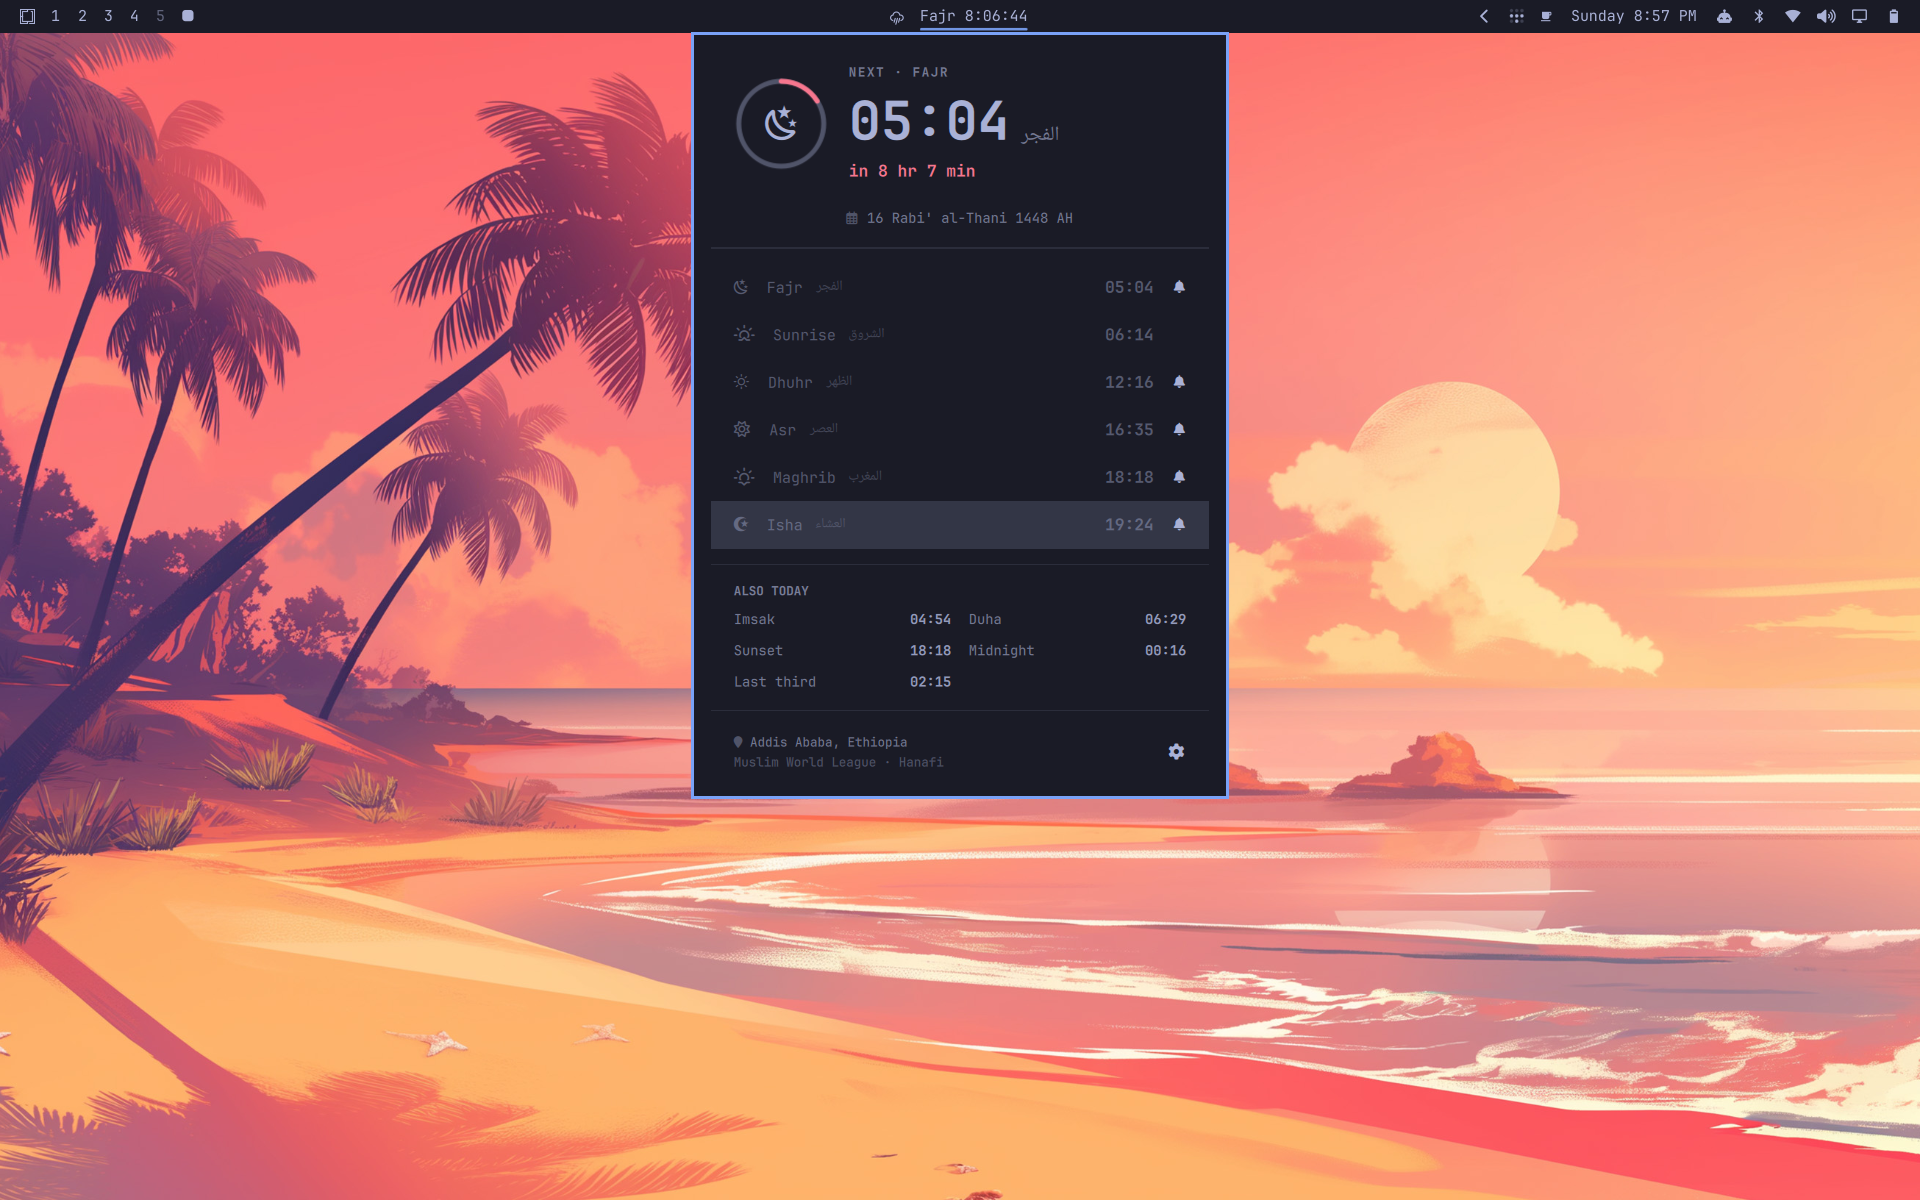
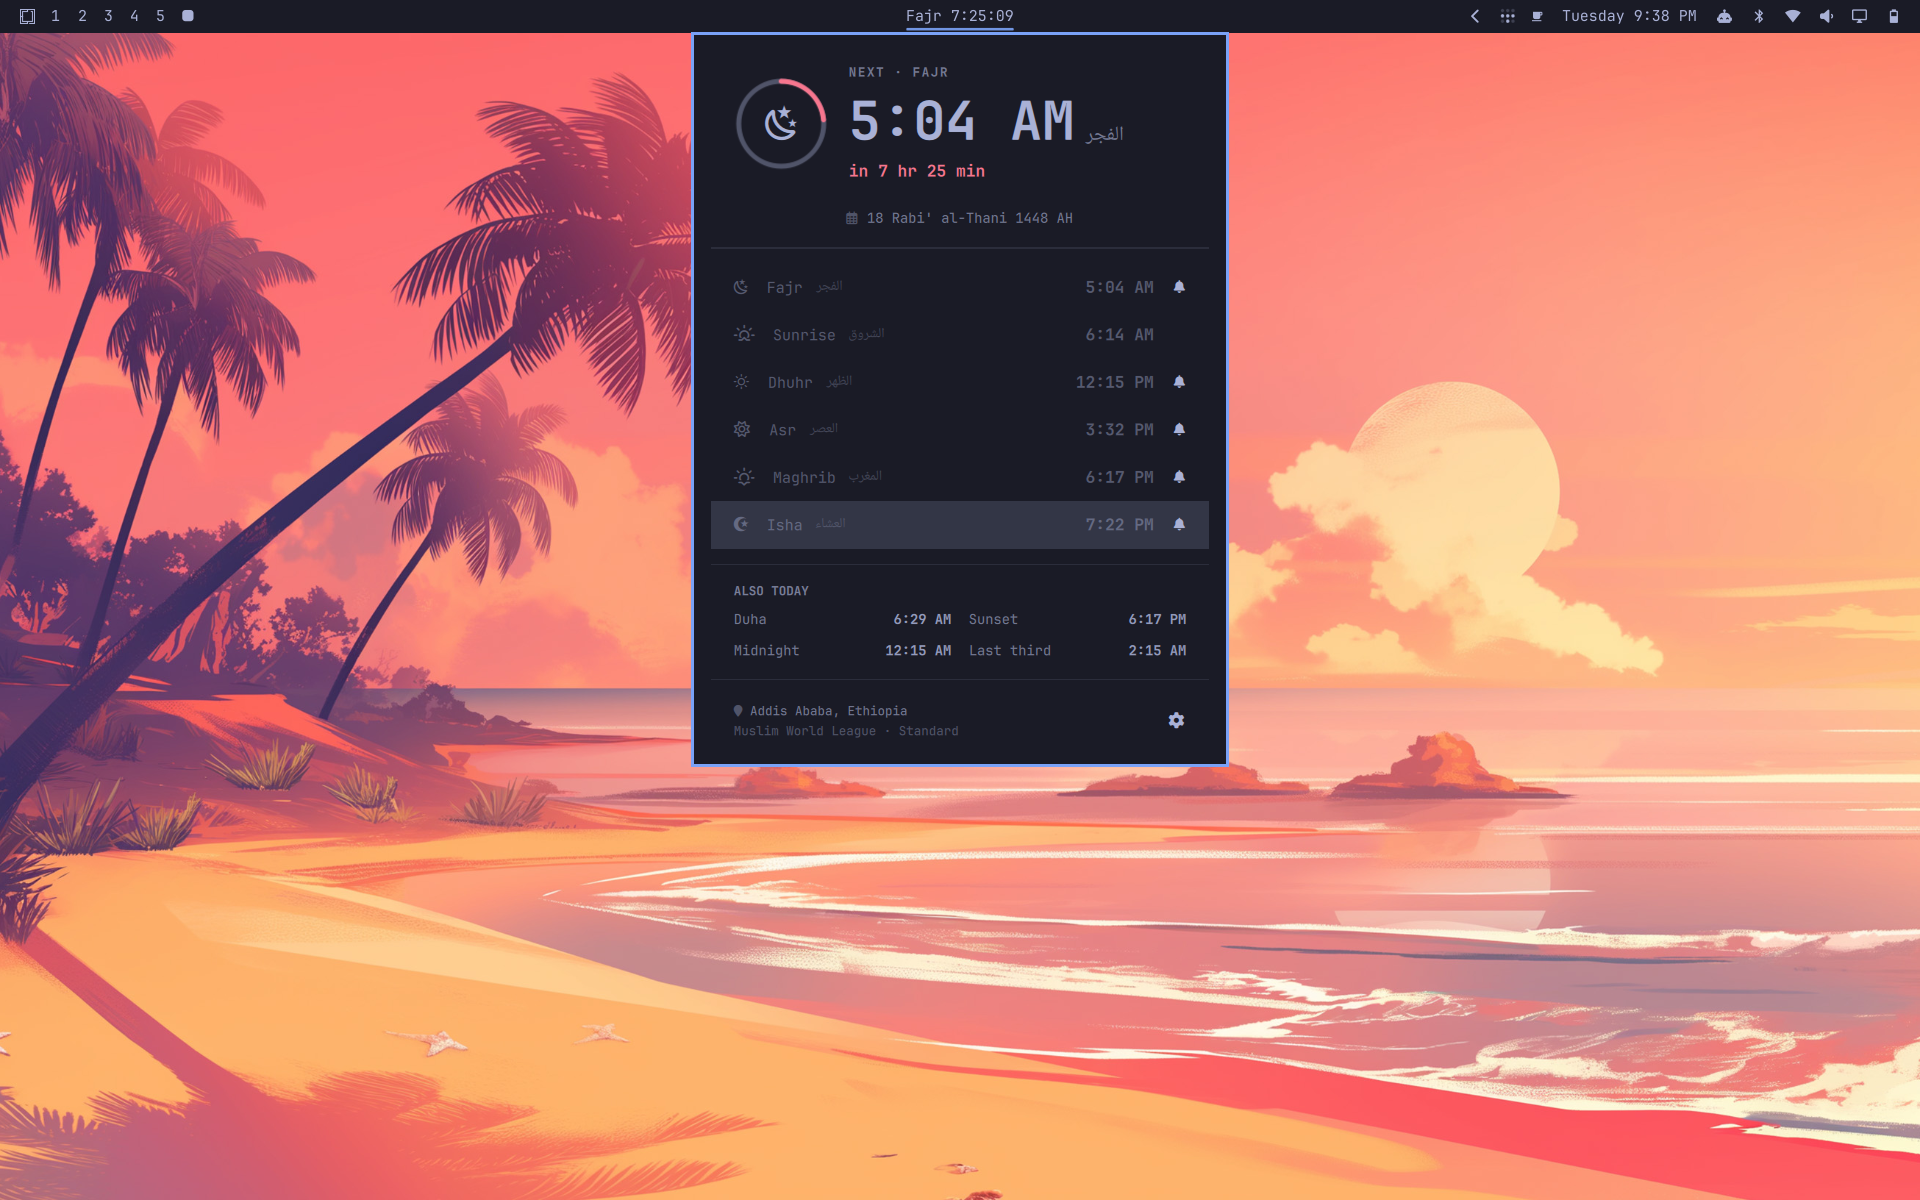
Docs: describe the day view without Imsak
The README's list of derived times and the panel screenshot both showed
it. The screenshot is a fresh full-screen capture with only its metadata
stripped.

diff --git a/README.md b/README.md
@@ -10,8 +10,7 @@ Prayer times in the Omarchy bar, with the adhan and the whole day one click away
 The bar shows the next prayer and a live countdown. Clicking it opens the day:
 a progress ring through the current window, every prayer with its Arabic name,
 the Hijri date, and the derived times that no timetable prints but everyone
-eventually wants — Imsak, Duha, Islamic midnight, and the last third of the
-night.
+eventually wants — Duha, Islamic midnight, and the last third of the night.
 
 ## Install
 
